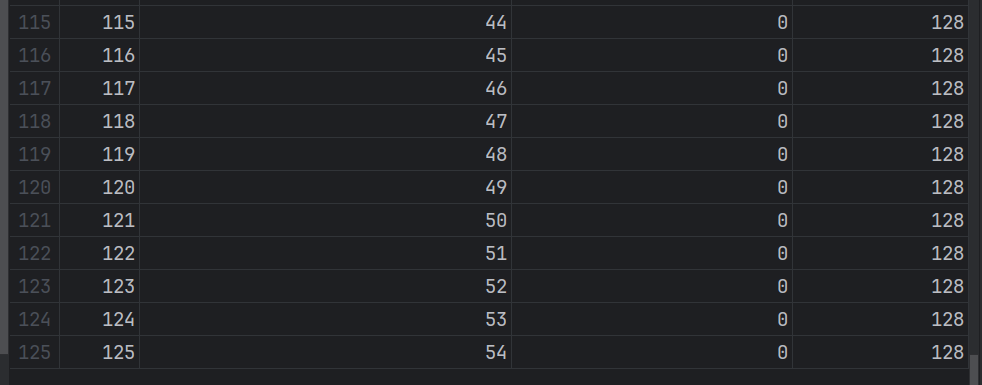
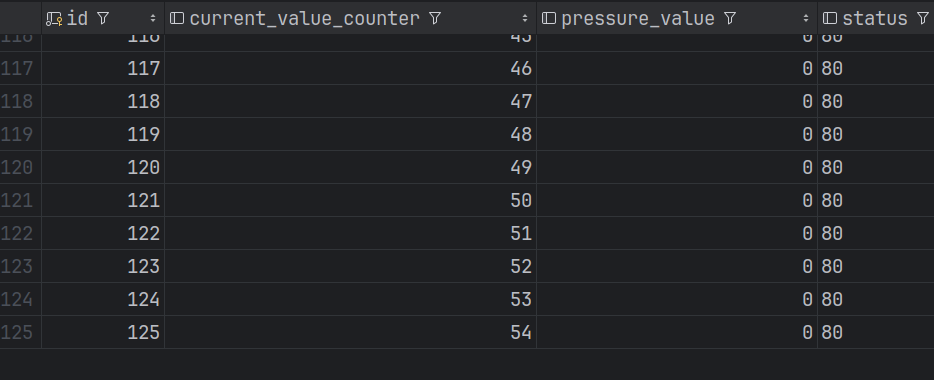
Migrate status to string

diff --git a/alembic/versions/cd5aca9779c6_make_status_string.py b/alembic/versions/cd5aca9779c6_make_status_string.py
@@ -1,0 +1,36 @@
+"""Make status string
+
+Revision ID: cd5aca9779c6
+Revises: 63a070b47844
+Create Date: 2024-05-06 21:21:39.426153
+
+"""
+from typing import Sequence, Union
+
+from alembic import op
+import sqlalchemy as sa
+
+
+# revision identifiers, used by Alembic.
+revision: str = 'cd5aca9779c6'
+down_revision: Union[str, None] = '63a070b47844'
+branch_labels: Union[str, Sequence[str], None] = None
+depends_on: Union[str, Sequence[str], None] = None
+
+
+def upgrade() -> None:
+    # ### commands auto generated by Alembic - please adjust! ###
+    op.create_table('sensor_data',
+    sa.Column('id', sa.Integer(), nullable=False),
+    sa.Column('current_value_counter', sa.Integer(), nullable=True),
+    sa.Column('pressure_value', sa.Float(), nullable=True),
+    sa.Column('status', sa.String(), nullable=True),
+    sa.PrimaryKeyConstraint('id')
+    )
+    # ### end Alembic commands ###
+
+
+def downgrade() -> None:
+    # ### commands auto generated by Alembic - please adjust! ###
+    op.drop_table('sensor_data')
+    # ### end Alembic commands ###

diff --git a/models.py b/models.py
@@ -1,4 +1,4 @@
-from sqlalchemy import Column, Integer, Float
+from sqlalchemy import Column, Integer, Float, String
 
 from database import Base
 
@@ -9,5 +9,5 @@ class SensorData(Base):
     id = Column(Integer, primary_key=True)
     current_value_counter = Column(Integer)
     pressure_value = Column(Float)
-    status = Column(Integer)
+    status = Column(String)
 

diff --git a/scheme.py b/scheme.py
@@ -23,9 +23,9 @@ class Batch(BaseModel):
 
     @field_validator("status")
     @classmethod
-    def check_status(cls, v):
+    def check_status(cls, v: int):
         assert v == 0x80, "Invalid status"
-        return v
+        return hex(v)[2:]
 
     @field_validator("current_value_counter")
     @classmethod

diff --git a/README.md b/README.md
@@ -1,3 +1,17 @@
+Написал два обработчика для информации с датчика:
+1) "Строгий" - последовательно читает байт за байтом, не допуская пропусков
+2) "Мягкий" - ищет в данных последовательности начинающиеся на 0x80, и обрабатывает уже их,
+может пропустить ненужные данные
+
+Какой именно обработчик нужно использовать я не понял ¯\_(ツ)_/¯
+
+Информацию о статусе я храню как строку,
+чтобы сохранить в неё 16-представление, не уверен,
+что это имелось ввиду, но на картинке нарисовано так, 
+и информация о том в каком формате хранить статус нет
+
+<hr>
+
 Тест 1: <br>
 ![test_request.png](img/test_request.png)
 Результат в базе
